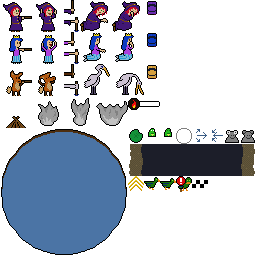
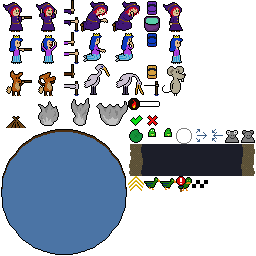
stirring contest

Changed region(s): [[0.5625, 0.0, 0.75, 0.375], [0.5, 0.4375, 0.625, 0.5], [0.5625, 0.0625, 0.625, 0.125]]

diff --git a/src/game/battle/battle_stirring.c b/src/game/battle/battle_stirring.c
@@ -1,0 +1,285 @@
+/* battle_stirring.c
+ */
+
+#include "game/bellacopia.h"
+
+#define REMARK_LIMIT 32
+
+struct battle_stirring {
+  struct battle hdr;
+  
+  struct player {
+    int who; // My index in this list.
+    int human; // 0 for CPU, or the input index.
+    double skill; // 0..1, reverse of each other.
+    uint32_t color;
+    uint8_t tileid_body; // 2x2
+    uint8_t tileid_arm; // single
+    uint8_t armdir; // 0x40,0x10,0x08,0x02, or 0x00 initially
+    uint8_t xform;
+    int x; // Center of hero.
+    uint8_t pvarmdir;
+    int score;
+    struct remark {
+      double x,y,dx,dy,ttl;
+      uint8_t tileid;
+    } remarkv[REMARK_LIMIT];
+    int remarkc;
+    double cpuclock;
+    double cputime;
+  } playerv[2];
+};
+
+#define BATTLE ((struct battle_stirring*)battle)
+
+/* Delete.
+ */
+ 
+static void _stirring_del(struct battle *battle) {
+}
+
+/* Init player.
+ */
+ 
+static void player_init(struct battle *battle,struct player *player,int human,int face) {
+  if (player==BATTLE->playerv) { // Left.
+    player->who=0;
+    player->x=FBW/3;
+    player->xform=0;
+  } else { // Right.
+    player->who=1;
+    player->x=(FBW*2)/3;
+    player->xform=EGG_XFORM_XREV;
+  }
+  if (player->human=human) { // Human.
+  } else { // CPU.
+    player->cputime=0.400*(1.0-player->skill)+0.100*player->skill;
+    player->cpuclock=player->cputime+0.250;
+  }
+  switch (face) {
+    case NS_face_monster: {
+        player->color=0xb1aa94ff;
+        player->tileid_body=0x4a;
+        player->tileid_arm=0x59;
+      } break;
+    case NS_face_dot: {
+        player->color=0x411775ff;
+        player->tileid_body=0x0a;
+        player->tileid_arm=0x14;
+      } break;
+    case NS_face_princess: {
+        player->color=0x0d3ac1ff;
+        player->tileid_body=0x2a;
+        player->tileid_arm=0x34;
+      } break;
+  }
+}
+
+/* New.
+ */
+ 
+static int _stirring_init(struct battle *battle) {
+  battle_normalize_bias(&BATTLE->playerv[0].skill,&BATTLE->playerv[1].skill,battle);
+  player_init(battle,BATTLE->playerv+0,battle->args.lctl,battle->args.lface);
+  player_init(battle,BATTLE->playerv+1,battle->args.rctl,battle->args.rface);
+  return 0;
+}
+
+/* Update human player.
+ */
+ 
+static void player_update_man(struct battle *battle,struct player *player,double elapsed,int input) {
+  switch (input&(EGG_BTN_LEFT|EGG_BTN_RIGHT|EGG_BTN_UP|EGG_BTN_DOWN)) {
+    case EGG_BTN_LEFT: player->armdir=0x10; break;
+    case EGG_BTN_RIGHT: player->armdir=0x08; break;
+    case EGG_BTN_UP: player->armdir=0x40; break;
+    case EGG_BTN_DOWN: player->armdir=0x02; break;
+  }
+}
+
+/* Update CPU player.
+ */
+ 
+static void player_update_cpu(struct battle *battle,struct player *player,double elapsed) {
+  if ((player->cpuclock-=elapsed)>0.0) return;
+  player->cpuclock+=player->cputime;
+  switch (player->armdir) {
+    case 0x40: player->armdir=0x08; break;
+    case 0x08: player->armdir=0x02; break;
+    case 0x02: player->armdir=0x10; break;
+    default: player->armdir=0x40;
+  }
+}
+
+/* Add remark.
+ */
+ 
+static void player_add_remark(struct battle *battle,struct player *player,uint8_t tileid) {
+  if (player->remarkc>=REMARK_LIMIT) return;
+  struct remark *remark=player->remarkv+player->remarkc++;
+  remark->x=player->x;
+  if (player->xform&EGG_XFORM_XREV) remark->x-=12.0;
+  else remark->x+=12.0;
+  remark->y=110.0;
+  remark->dx=((rand()&0xffff)*40.0)/65535.0-20.0;
+  remark->dy=-40.0;
+  remark->ttl=0.500;
+  remark->tileid=tileid;
+}
+
+/* Update all players, after specific controller.
+ */
+ 
+static void player_update_common(struct battle *battle,struct player *player,double elapsed) {
+
+  /* If armdir changed, rate it.
+   * We don't require continuity of the circle, just each stroke must be perpendicular to the last.
+   * If a player wants to stir just one corner, they're welcome to.
+   */
+  if (player->armdir!=player->pvarmdir) {
+    int good=0;
+    switch (player->pvarmdir) {
+      case 0: good=1; break; // From the initial position, your first stroke is always kosher.
+      case 0x40: good=(player->armdir&0x18); break;
+      case 0x10: good=(player->armdir&0x42); break;
+      case 0x08: good=(player->armdir&0x42); break;
+      case 0x02: good=(player->armdir&0x18); break;
+    }
+    player->pvarmdir=player->armdir;
+    if (good) {
+      player->score++;
+      bm_sound_pan(RID_sound_tick,player->who?PLAYER_PAN:-PLAYER_PAN);
+      player_add_remark(battle,player,0x78);
+    } else {
+      player->score--;
+      if (player->score<0) player->score=0;
+      bm_sound_pan(RID_sound_ouch,player->who?PLAYER_PAN:-PLAYER_PAN);
+      player_add_remark(battle,player,0x79);
+    }
+  }
+  
+  /* Update remarks.
+   */
+  struct remark *remark=player->remarkv+player->remarkc-1;
+  int i=player->remarkc;
+  for (;i-->0;remark--) {
+    if ((remark->ttl-=elapsed)<=0.0) {
+      player->remarkc--;
+      memmove(remark,remark+1,sizeof(struct remark)*(player->remarkc-i));
+    } else {
+      remark->x+=remark->dx*elapsed;
+      remark->y+=remark->dy*elapsed;
+    }
+  }
+}
+
+/* Update.
+ */
+ 
+static void _stirring_update(struct battle *battle,double elapsed) {
+  
+  struct player *player=BATTLE->playerv;
+  int i=2;
+  for (;i-->0;player++) {
+    if (battle->outcome==-2) {
+      if (player->human) player_update_man(battle,player,elapsed,g.input[player->human]);
+      else player_update_cpu(battle,player,elapsed);
+    }
+    player_update_common(battle,player,elapsed);
+  }
+  
+  if (battle->outcome==-2) {
+    struct player *l=BATTLE->playerv;
+    struct player *r=l+1;
+    const int winscore=40;
+    if (l->score>=winscore) {
+      if (r->score>=winscore) battle->outcome=0;
+      else battle->outcome=1;
+    } else if (r->score>=winscore) battle->outcome=-1;
+  }
+}
+
+/* Render player.
+ */
+ 
+static void player_render(struct battle *battle,struct player *player,int groundy) {
+
+  int x0=player->x-(NS_sys_tilesize>>1);
+  int x1=x0+NS_sys_tilesize;
+  int x2=x1+6; // cauldron
+  int y0=groundy-NS_sys_tilesize-(NS_sys_tilesize>>1);
+  int y1=y0+NS_sys_tilesize;
+  int y2=y1+4; // cauldron
+  int armx=x1+1;
+  int army=y1-6;
+  int armdx=1;
+  if (player->xform&EGG_XFORM_XREV) {
+    x1=x0;
+    x0=x1+NS_sys_tilesize;
+    x2=x1-6;
+    armx=x1-1;
+    armdx=-1;
+  }
+  switch (player->armdir) {
+    case 0x40: army-=2; break;
+    case 0x10: armx+=-2*armdx; break;
+    case 0x08: armx+=2*armdx; break;
+    case 0x02: army+=2; break;
+  }
+  
+  graf_tile(&g.graf,x2,y2,0x19,0);
+  graf_tile(&g.graf,armx,army,player->tileid_arm,player->xform);
+  graf_tile(&g.graf,x0,y0,player->tileid_body+0x00,player->xform);
+  graf_tile(&g.graf,x1,y0,player->tileid_body+0x01,player->xform);
+  graf_tile(&g.graf,x0,y1,player->tileid_body+0x10,player->xform);
+  graf_tile(&g.graf,x1,y1,player->tileid_body+0x11,player->xform);
+  
+  struct remark *remark=player->remarkv;
+  int i=player->remarkc;
+  for (;i-->0;remark++) {
+    graf_tile(&g.graf,(int)remark->x,(int)remark->y,remark->tileid,0);
+  }
+}
+
+/* Render.
+ */
+ 
+static void _stirring_render(struct battle *battle) {
+
+  const int groundy=130;
+  graf_fill_rect(&g.graf,0,0,FBW,groundy,battle->ctab[BATTLE_COLOR_SKY]);
+  graf_fill_rect(&g.graf,0,groundy,FBW,FBH-groundy,battle->ctab[BATTLE_COLOR_GROUND]);
+  graf_fill_rect(&g.graf,0,groundy,FBW,1,0x000000ff);
+  
+  struct player *l=BATTLE->playerv;
+  struct player *r=l+1;
+  graf_set_image(&g.graf,RID_image_battle_forest);
+  player_render(battle,l,groundy);
+  player_render(battle,r,groundy);
+  
+  // Score bars.
+  if (l->score>0) graf_fill_rect(&g.graf,(FBW>>1)-8,groundy-l->score,6,l->score,l->color);
+  if (r->score>0) graf_fill_rect(&g.graf,(FBW>>1)+2,groundy-r->score,6,r->score,r->color);
+}
+
+/* Type definition.
+ */
+ 
+const struct battle_type battle_type_stirring={
+  .name="stirring",
+  .objlen=sizeof(struct battle_stirring),
+  .id=NS_battle_stirring,
+  .strix_name=294,
+  .no_article=0,
+  .no_contest=0,
+  .no_timeout=0,
+  .support_pvp=1,
+  .support_cvc=1,
+  .update_during_report=1,
+  .input=battle_input_dpad,
+  .imageid_default=0,
+  .del=_stirring_del,
+  .init=_stirring_init,
+  .update=_stirring_update,
+  .render=_stirring_render,
+};

diff --git a/src/game/shared_symbols.h b/src/game/shared_symbols.h
@@ -487,6 +487,7 @@
 #define NS_battle_snaring 81
 #define NS_battle_skiing 82
 #define NS_battle_mixing 83
+#define NS_battle_stirring 84
 #define FOR_EACH_battle \
   _(fishing) \
   _(chopping) \
@@ -570,7 +571,8 @@
   _(sparing) \
   _(snaring) \
   _(skiing) \
-  _(mixing)
+  _(mixing) \
+  _(stirring)
 
 /* "fld" are single bits.
  */

diff --git a/src/game/modal/modal_arcade.c b/src/game/modal/modal_arcade.c
@@ -8,7 +8,7 @@
 
 #include "game/bellacopia.h"
 
-#define PRESELECT_BATTLE NS_battle_mixing
+#define PRESELECT_BATTLE NS_battle_stirring
 
 #define ROWC 20 /* FBH / font height */
 #define KEY_REPEAT_INITIAL 0.250

diff --git a/etc/note/monthly-progress.md b/etc/note/monthly-progress.md
@@ -148,7 +148,7 @@ Stats as of 863805772e927286f08a03cf482670292951f3ac, 2026-06-30:
 
 ## July 2026
 
-To simplify a little, battle counts from here on will just be `wc -l src/game/battle`. That adds one to this month's count artificially.
+Battle count now, just take the assigned `NS_battle_` symbols from `shared_symbols.c`. That's exactly what we had before, just easier to grok. (ie all but `battle_placeholder`)
 
 On 5 July, the ROM crossed floppy disk size. Web zip is still under a meg.
 We've surpassed egg2 in source size (egg2 is currently 71272 lines), and we're the 3rd-largest project I've ever written. Will be first by the end, no doubt at all.
@@ -156,7 +156,7 @@ I also checked the graphics size (pixel count) of all my older games -- we're th
 Crossed the halfway point for battles! There are now more implemented battles than planned ones.
 
 Goals:
-- [ ] 20 new battles.
+- [x] 20 new battles.
 - [ ] Cutscenes.
 
 ## August 2026

diff --git a/etc/note/size_contest.md b/etc/note/size_contest.md
@@ -98,6 +98,7 @@ Campaign Trail of the Mummy doesn't count because it's on a timer.
 ## Minimum full clear time
 
 SUMMARY: Already first, by a ridiculous margin, and will get bigger. Our full clear is a much more involved thing than any game I've made in the past.
+Tho actually, I bet Bandit is way up there, it had a bunch of side quests.
 
 For games that distinguish Full Clear from Any%.
 
@@ -112,6 +113,7 @@ SUMMARY: Likely to be first, tho I still hold out hope of finishing in 2026.
 Measure via git commits. Only count thru the release, don't count post-release repairs or currency.
 Nothing older than CTM has reliable version control logs; they were all gitted after the fact if at all.
 Bandit and Zen were both huge projects, probably in the neighborhood of 6 months.
+The little games are typically one or two weeks.
 
 - 380 2017-09-15..2018-09-30 Plunder Squad. First commit says "begin version control". Unclear how much work had been done before that; can't be much.
 - 265 2023-01-06..2023-09-29 Full Moon.